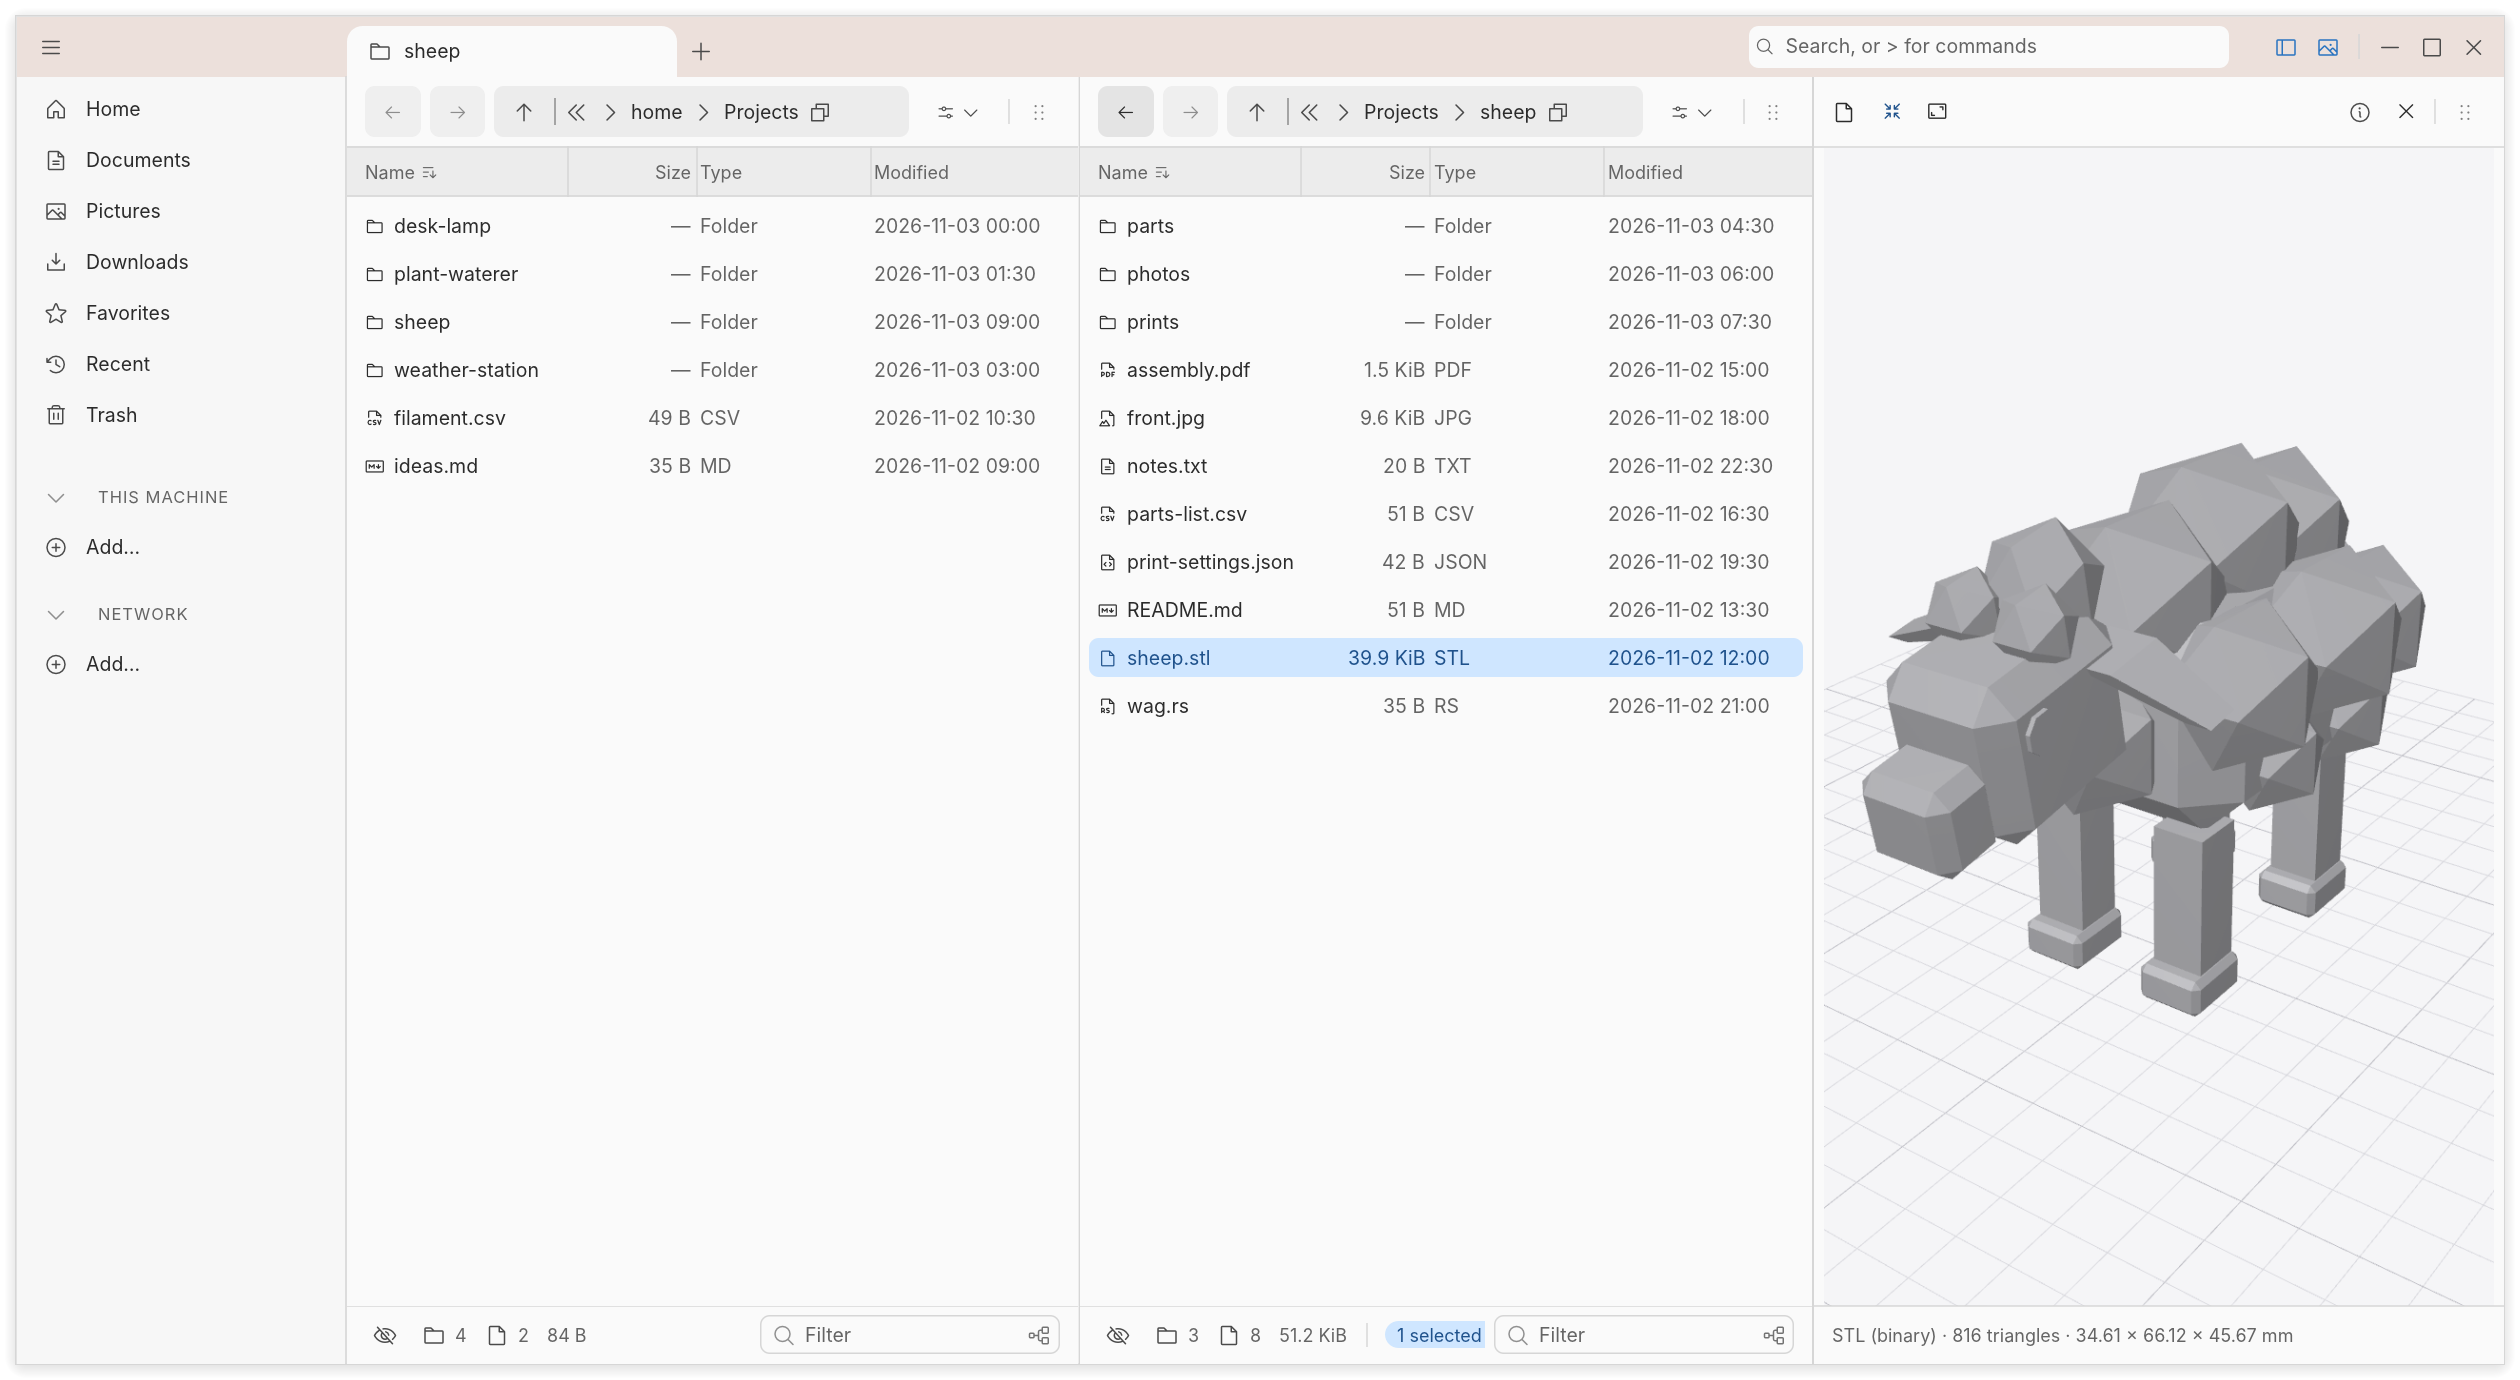
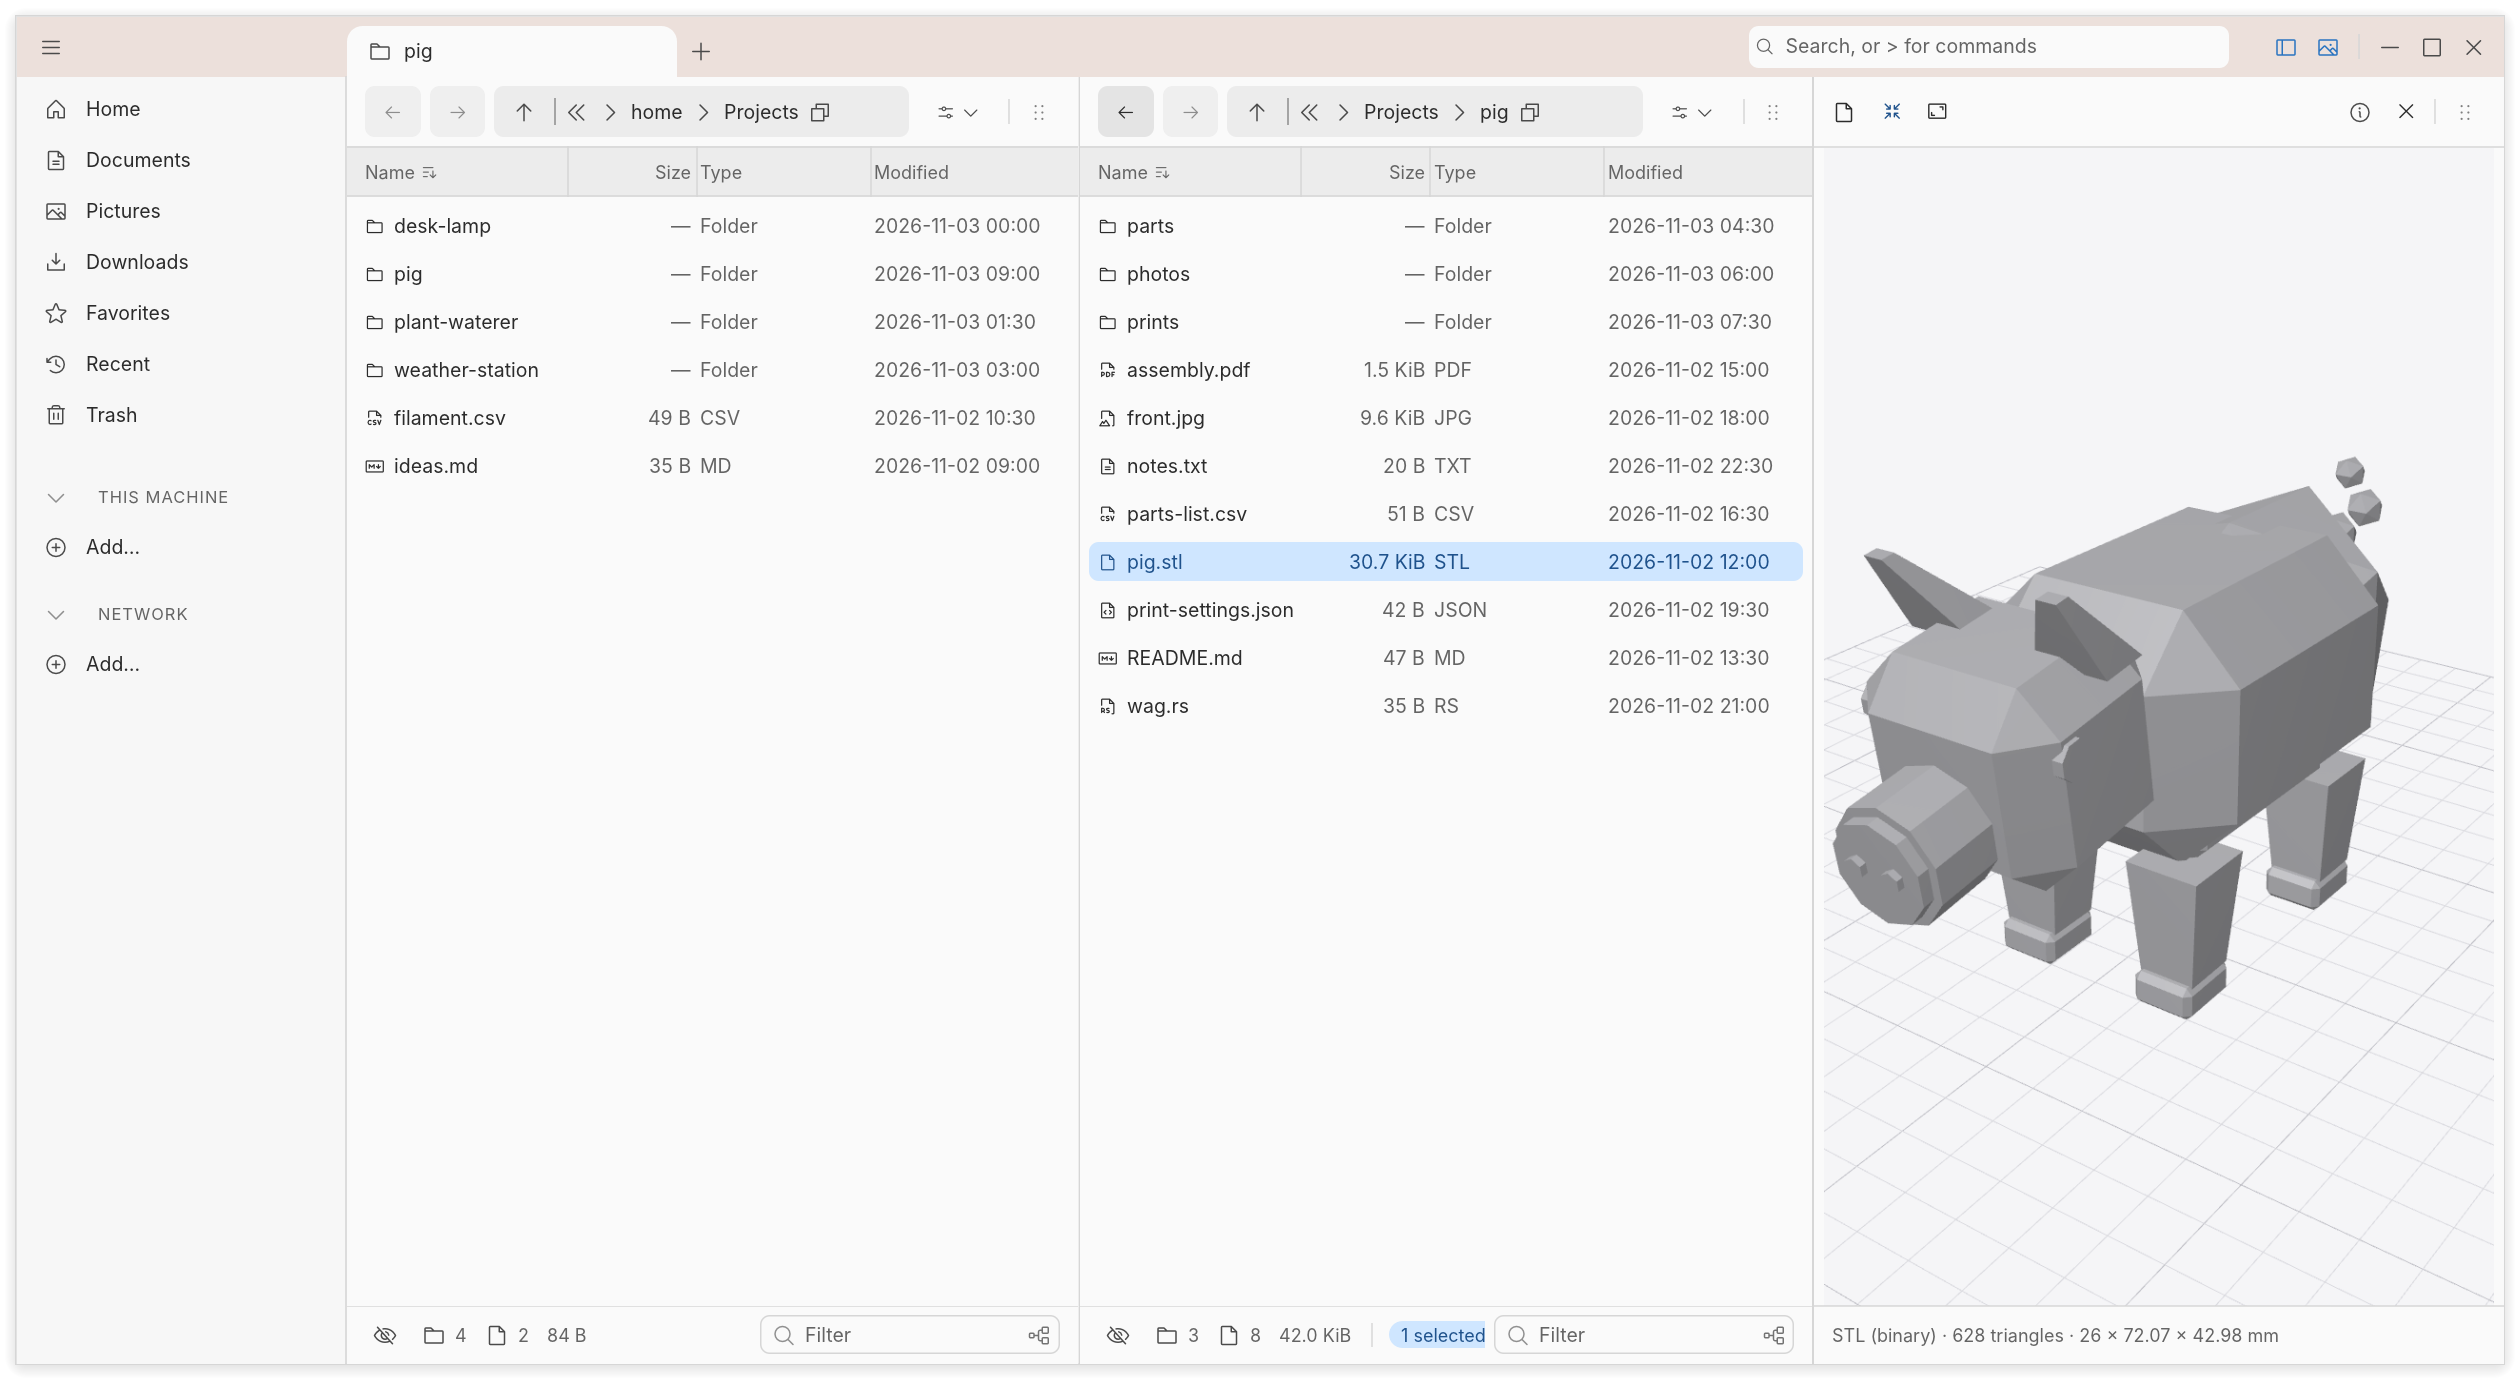
docs(readme): 0.6.0 is out
Regenerated by cargo xtask readme; the privacy paragraph of
specs/readme.md section 9 is added by hand, word for word.

Claude-Session: https://claude.ai/code/session_01GE43LBPEKDanNa1go9vzR8

diff --git a/README.md b/README.md
@@ -3,9 +3,9 @@
 Rick is a fast, lean file manager for professionals. It runs on Linux, macOS and Windows from a single codebase and behaves the same on all three. A small core does the basics; everything else comes from an extensible plugin ecosystem.
 
 <!-- generated:status -->
-v0.5.0 · Rick is early and not fully tested yet, so expect bugs. Tab navigation and some performance work are still unfinished. Please help us find what's broken and tell us what you see.
+v0.6.0 · Rick is early and not fully tested yet, so expect bugs. Tab navigation and some performance work are still unfinished. Please help us find what's broken and tell us what you see.
 
-[Download v0.5.0](#install) for Linux, macOS or Windows, try it, and tell us [what breaks](https://github.com/Open-Breach/rick/issues). [Opinions](https://github.com/Open-Breach/rick/issues) welcome too, good or bad, as long as they're respectful.
+[Download v0.6.0](#install) for Linux, macOS or Windows, try it, and tell us [what breaks](https://github.com/Open-Breach/rick/issues). [Opinions](https://github.com/Open-Breach/rick/issues) welcome too, good or bad, as long as they're respectful.
 <!-- /generated:status -->
 
 ## Why Rick exists
@@ -71,27 +71,34 @@ Coming:
 
 <picture>
   <source media="(prefers-color-scheme: dark)" srcset="docs/screenshots/readme-dark.png">
-  <img alt="Rick with two panes side by side and the preview pane showing a 3D model of a sheep" src="docs/screenshots/readme-light.png">
+  <img alt="Rick with two panes side by side and the preview pane showing a 3D model of a pig" src="docs/screenshots/readme-light.png">
 </picture>
 
 ## Install
 
 <!-- generated:install -->
-**Linux** · [x64](https://github.com/Open-Breach/rick/releases/download/v0.5.0/rick-0.5.0-linux-x64.tar.gz) · [arm64](https://github.com/Open-Breach/rick/releases/download/v0.5.0/rick-0.5.0-linux-arm64.tar.gz)
+**Linux** · [x64](https://github.com/Open-Breach/rick/releases/download/v0.6.0/rick-0.6.0-linux-x64.tar.gz) · [arm64](https://github.com/Open-Breach/rick/releases/download/v0.6.0/rick-0.6.0-linux-arm64.tar.gz)
 
 ```bash
-tar xzf rick-0.5.0-linux-x64.tar.gz && ./rick-0.5.0-linux-x64/rick
+tar xzf rick-0.6.0-linux-x64.tar.gz && ./rick-0.6.0-linux-x64/rick
 ```
 
 Needs glibc 2.36 or later (Debian 12, Ubuntu 24.04). The first start offers to set Rick up in your desktop: the launcher entry, the default file manager, the `rick` command.
 
-**macOS** · [arm64](https://github.com/Open-Breach/rick/releases/download/v0.5.0/rick-0.5.0-macos-arm64.zip)
+**macOS** · [arm64](https://github.com/Open-Breach/rick/releases/download/v0.6.0/rick-0.6.0-macos-arm64.zip)
 
 Unzip, drag `Rick.app` to Applications and open it. The app is not notarised yet: allow it under System Settings → Privacy & Security.
 
-**Windows** · [x64](https://github.com/Open-Breach/rick/releases/download/v0.5.0/rick-0.5.0-windows-x64.zip)
+**Windows** · [x64](https://github.com/Open-Breach/rick/releases/download/v0.6.0/rick-0.6.0-windows-x64.zip)
 
 Unpack and run `rick.exe`. SmartScreen may warn the first time.
+
+Every file of a release has a GitHub build attestation. It proves where a file comes from, not that it is safe. To check one with the GitHub CLI:
+
+```bash
+gh attestation verify <file> --owner Open-Breach --signer-repo Open-Breach/trebuchet   # a Linux file
+gh attestation verify <file> --repo Open-Breach/rick                                   # a macOS or Windows file
+```
 
 Office documents preview through LibreOffice when it is installed; on Linux, audio and video need the GStreamer plug-ins.
 
@@ -117,6 +124,8 @@ Contributions are accepted under the same Apache-2.0 license.
 </p>
 
 ---
+
+Rick has no telemetry and no crash reports. It makes one request you did not start: once a day, and when you open the list of available plugins, it fetches the list of its plugins from get.openbreach.dev, two files, and sends only its version. That address is served through Cloudflare, which sees your IP address as it does for any web request. *Look for plugins and updates online* in Settings → Behaviour turns that off. All other network traffic is the one you start: a remote provider you added, a plugin you install.
 
 [Building from source](docs/building.md) · [The command line](docs/command-line.md) · [The architecture](docs/architecture.md) · [The changelog](CHANGELOG.md)
 
